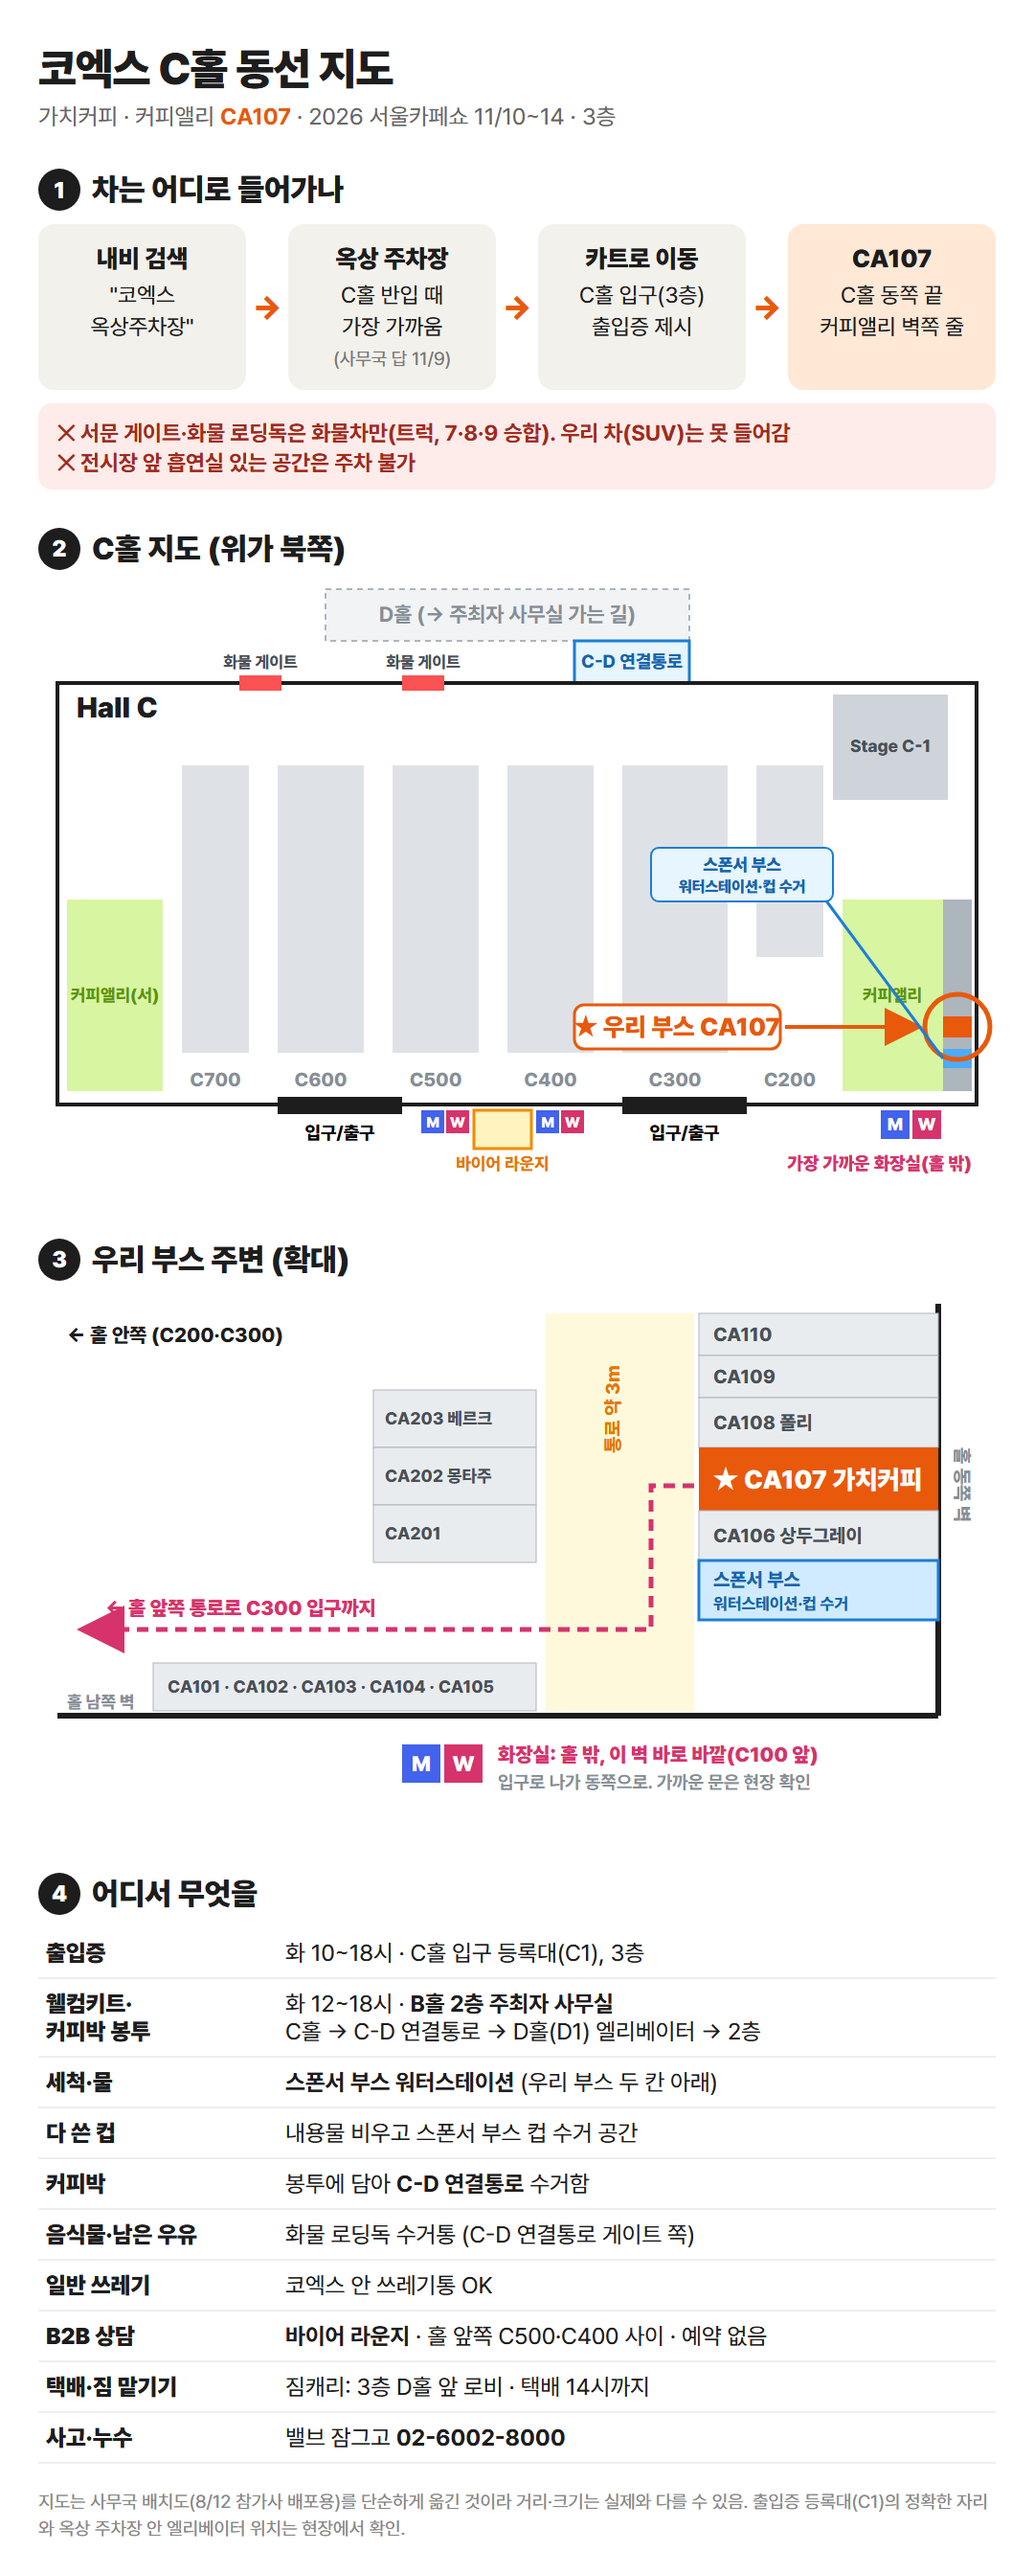
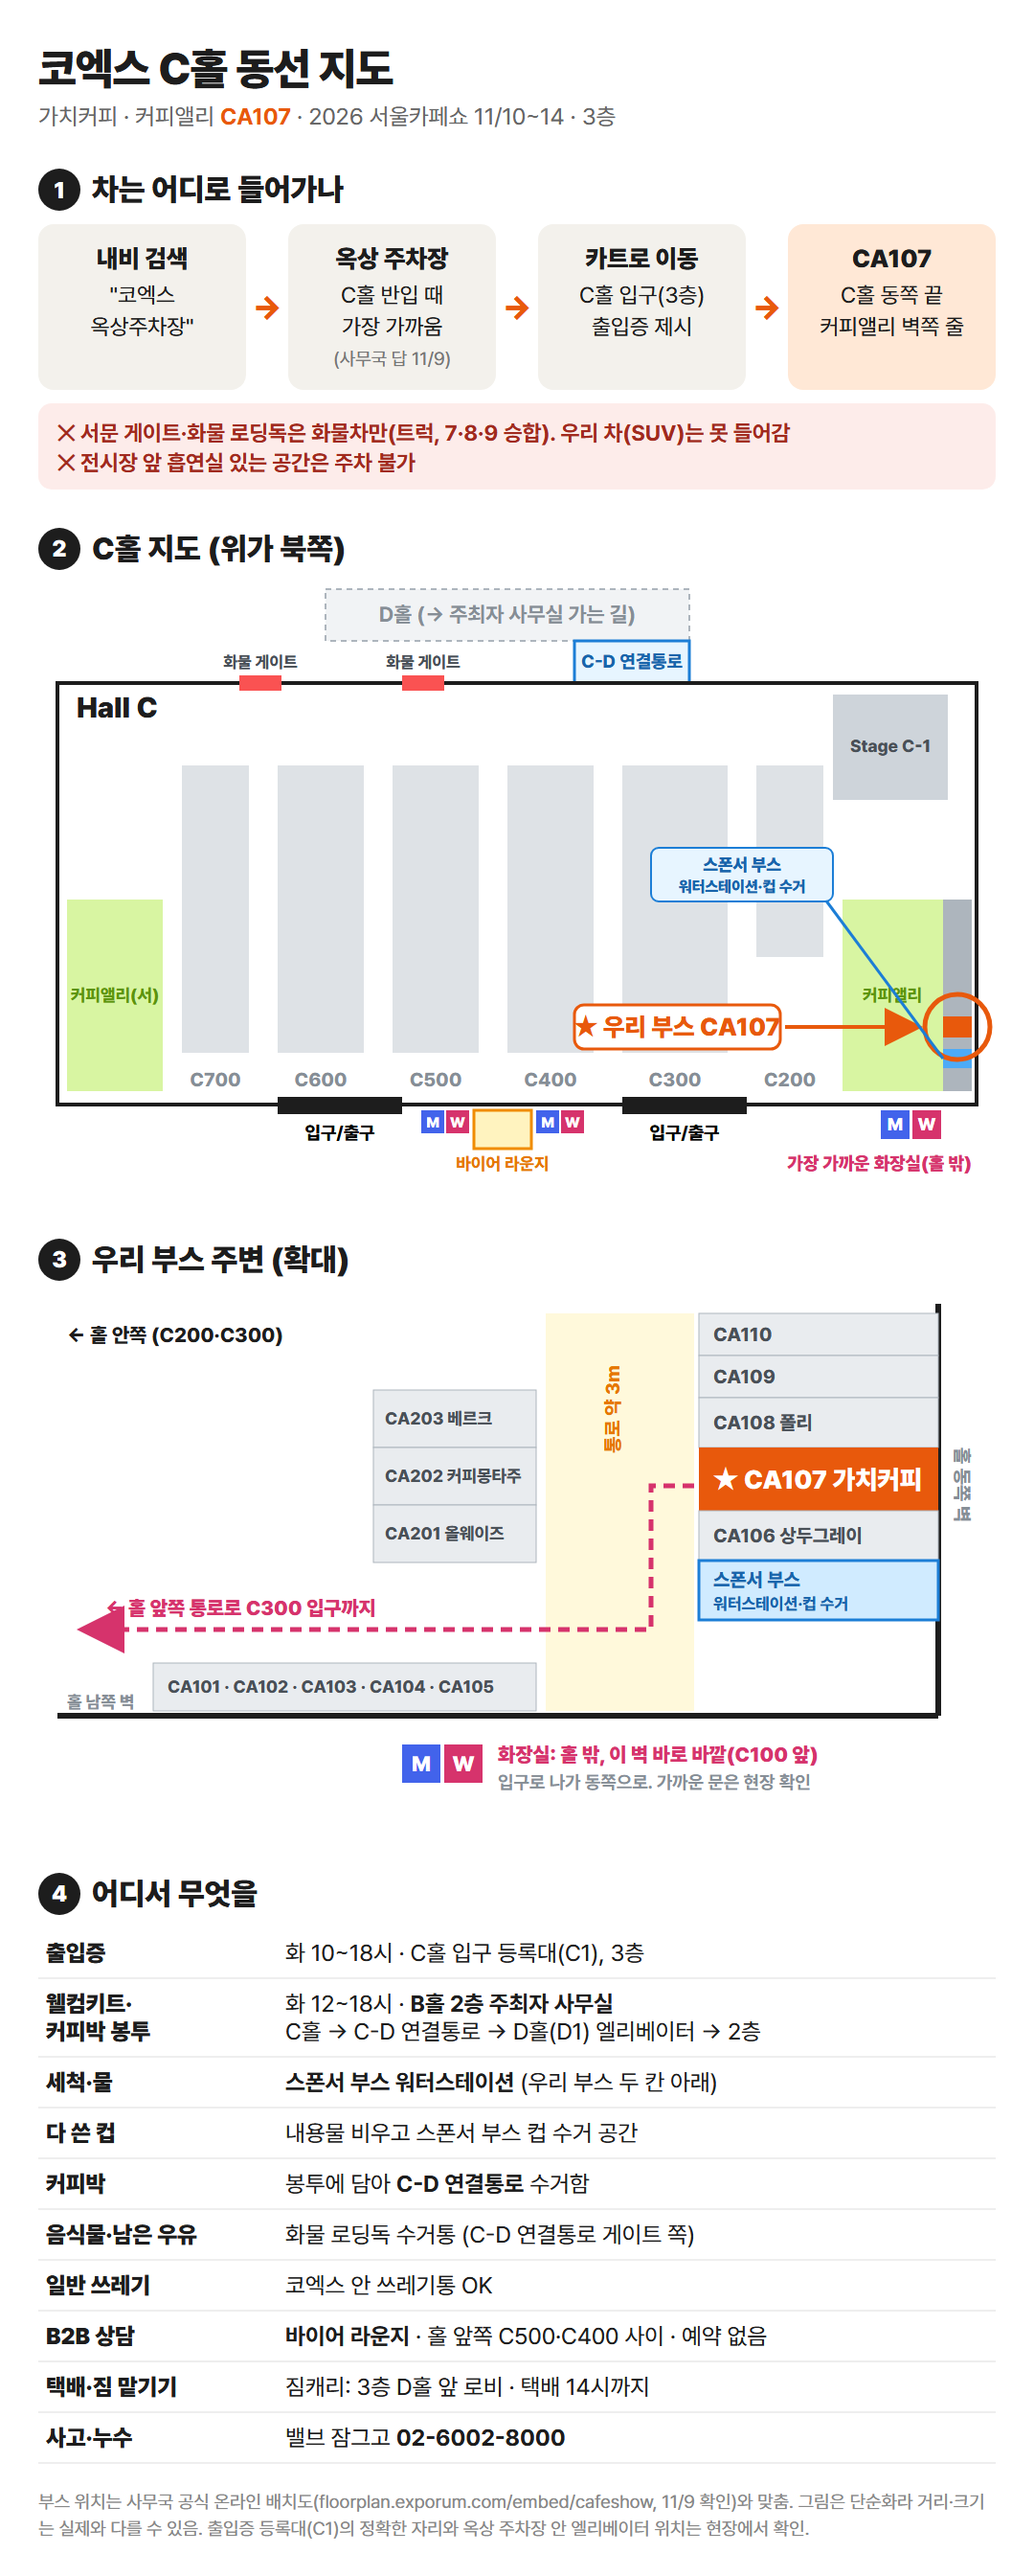
C홀 동선 지도: 공식 온라인 배치도와 대조

diff --git a/planning/현장자료/코엑스-C홀-동선지도.html b/planning/현장자료/코엑스-C홀-동선지도.html
@@ -133,8 +133,8 @@ td:first-child{width:250px;font-weight:900}
  <text x="607" y="120" text-anchor="middle" font-size="20" font-weight="800" fill="#e67700" transform="rotate(-90 607 120)">통로 약 3m</text>
  <g font-size="18" font-weight="800" fill="#495057">
   <rect x="350" y="100" width="170" height="60" fill="#e9ecef" stroke="#adb5bd"/><text x="362" y="136">CA203 베르크</text>
-  <rect x="350" y="160" width="170" height="60" fill="#e9ecef" stroke="#adb5bd"/><text x="362" y="196">CA202 몽타주</text>
-  <rect x="350" y="220" width="170" height="60" fill="#e9ecef" stroke="#adb5bd"/><text x="362" y="256">CA201</text>
+  <rect x="350" y="160" width="170" height="60" fill="#e9ecef" stroke="#adb5bd"/><text x="362" y="196">CA202 커피몽타주</text>
+  <rect x="350" y="220" width="170" height="60" fill="#e9ecef" stroke="#adb5bd"/><text x="362" y="256">CA201 올웨이즈</text>
   <rect x="120" y="385" width="400" height="50" fill="#e9ecef" stroke="#adb5bd"/><text x="135" y="416">CA101 · CA102 · CA103 · CA104 · CA105</text>
  </g>
  <path d="M685 200 L640 200 L640 350 L60 350" stroke="#d6336c" stroke-width="5" stroke-dasharray="12 8" fill="none" marker-end="url(#ah2)"/>
@@ -162,5 +162,5 @@ td:first-child{width:250px;font-weight:900}
 <tr><td>사고·누수</td><td>밸브 잠그고 <b>02-6002-8000</b></td></tr>
 </table>
 
-<div class="foot">지도는 사무국 배치도(8/12 참가사 배포용)를 단순하게 옮긴 것이라 거리·크기는 실제와 다를 수 있음. 출입증 등록대(C1)의 정확한 자리와 옥상 주차장 안 엘리베이터 위치는 현장에서 확인.</div>
+<div class="foot">부스 위치는 사무국 공식 온라인 배치도(floorplan.exporum.com/embed/cafeshow, 11/9 확인)와 맞춤. 그림은 단순화라 거리·크기는 실제와 다를 수 있음. 출입증 등록대(C1)의 정확한 자리와 옥상 주차장 안 엘리베이터 위치는 현장에서 확인.</div>
 </div></body></html>
